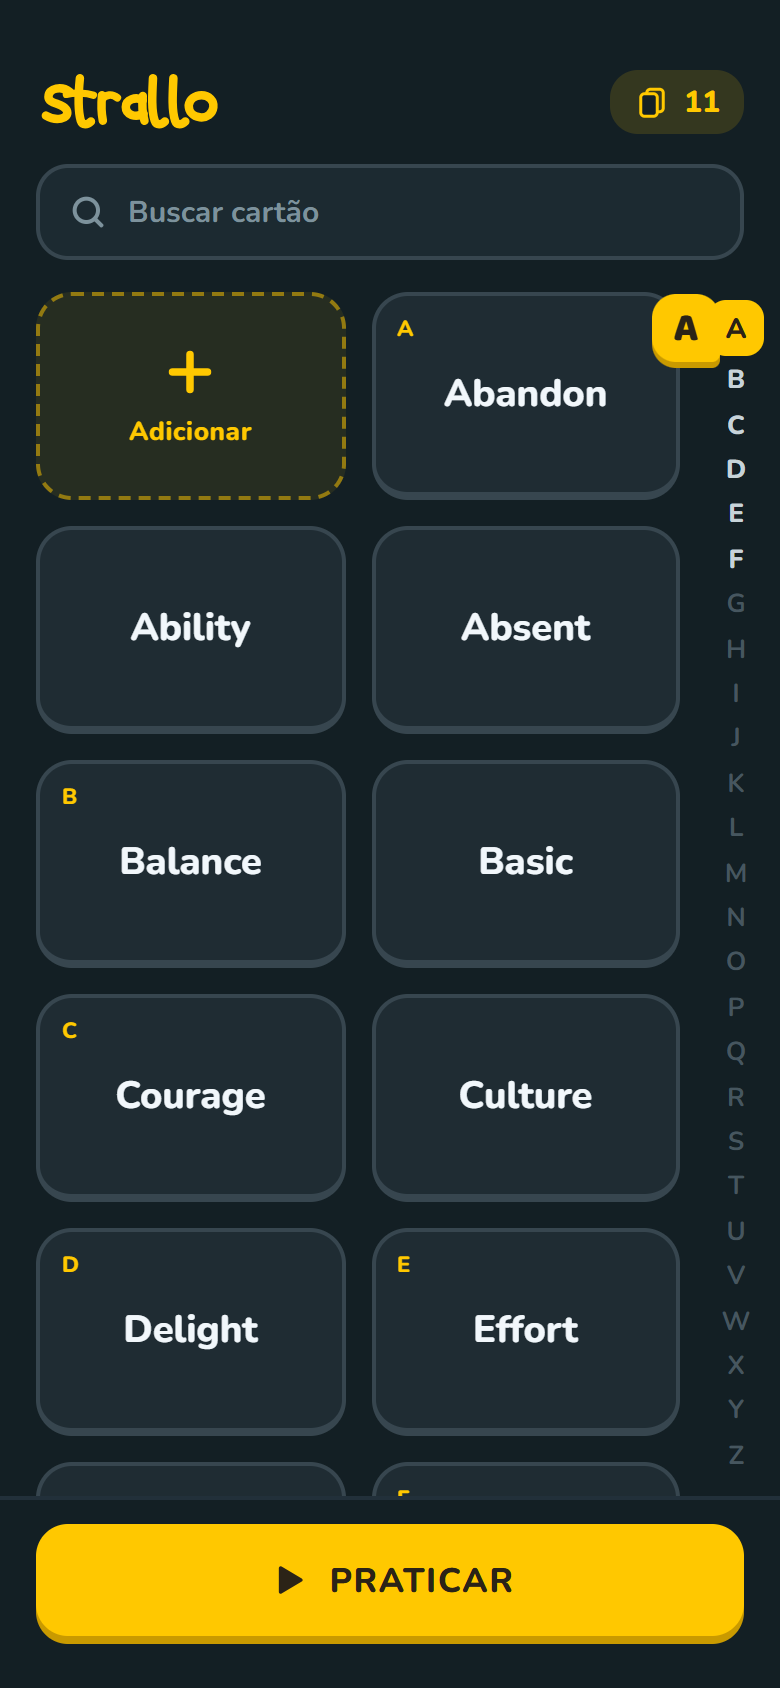
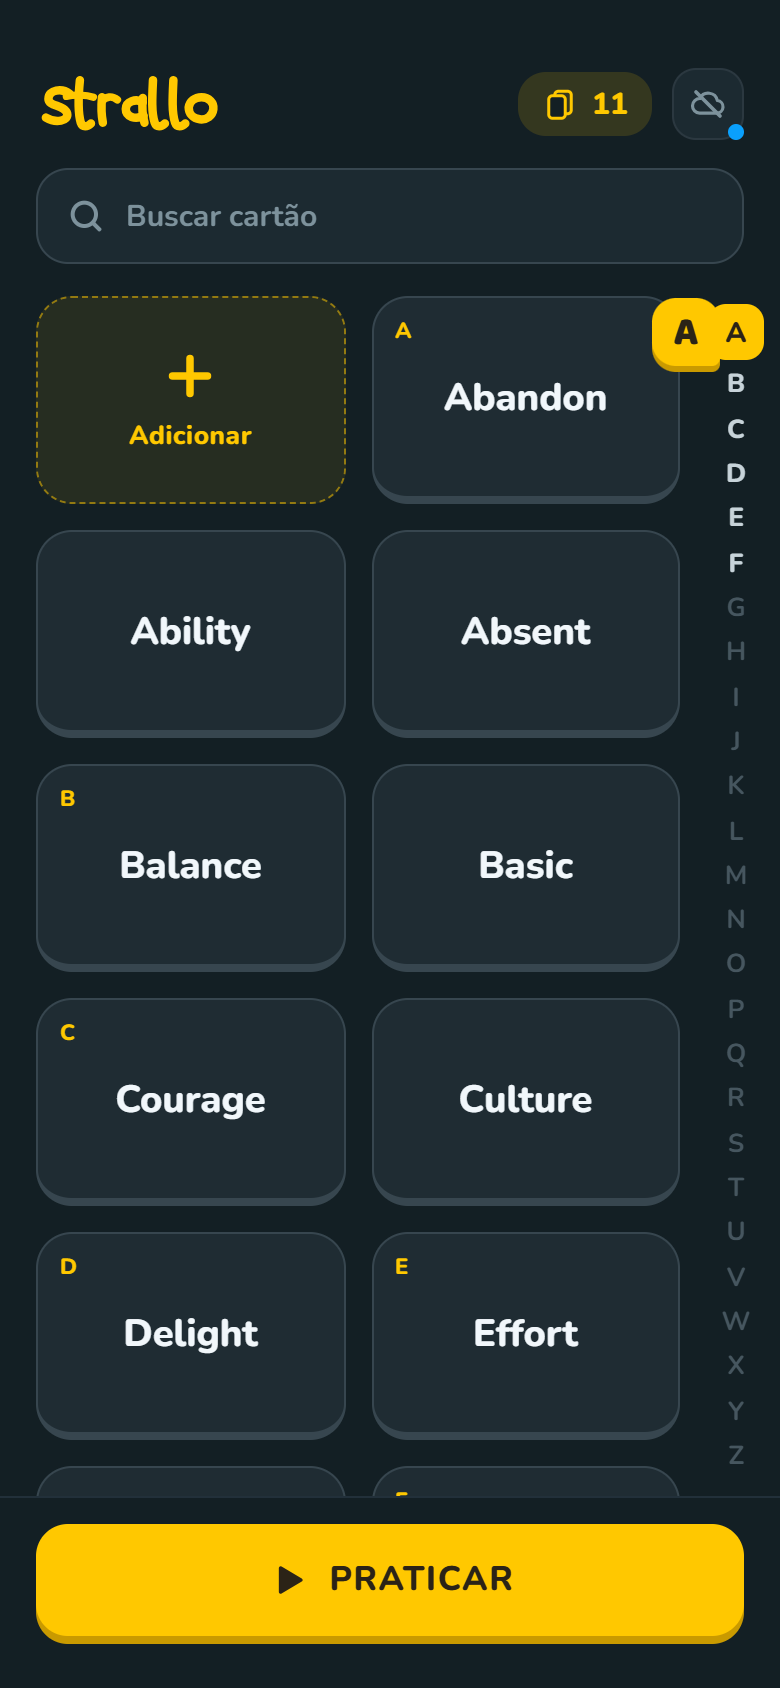
:memo: docs: atualiza galeria do README com novas telas de prototipagem
Inclui as novas capturas das telas de colecoes (inicio, dentro da colecao, criar, mover, selecao multipla, descartar) e de conta (sem login e sincronizada) na galeria do README.

diff --git a/README.md b/README.md
@@ -113,7 +113,23 @@ As telas foram desenhadas antes de codadas. Os arquivos-fonte estão em
 
 <img src="docs/screens/inicio.png" width="160" alt="Início">
 &nbsp;
+<img src="docs/screens/inicio-categorias.png" width="160" alt="Com coleções">
+&nbsp;
+<img src="docs/screens/dentro-da-colecao.png" width="160" alt="Dentro da coleção">
+
+<br><br>
+
+<img src="docs/screens/criar-categoria.png" width="160" alt="Criar coleção">
+&nbsp;
 <img src="docs/screens/editar.png" width="160" alt="Editar cartão">
+&nbsp;
+<img src="docs/screens/mover-para.png" width="160" alt="Mover para coleção">
+
+<br><br>
+
+<img src="docs/screens/multipla-selecao.png" width="160" alt="Seleção múltipla">
+&nbsp;
+<img src="docs/screens/modal-descartar.png" width="160" alt="Confirmar exclusão">
 &nbsp;
 <img src="docs/screens/jogo-inicio.png" width="160" alt="Escolher modo">
 
@@ -133,11 +149,13 @@ As telas foram desenhadas antes de codadas. Os arquivos-fonte estão em
 &nbsp;
 <img src="docs/screens/jogo-resultado.png" width="160" alt="Resultado da rodada">
 
-</div>
+<br><br>
 
-As telas de coleções e de conta ainda não estão nesta galeria — as capturas
-saem das artboards por `node scripts/generate-screens.mjs`, que precisa de um
-Chromium funcional.
+<img src="docs/screens/conta-sem-login.png" width="160" alt="Conta (visitante)">
+&nbsp;
+<img src="docs/screens/conta-sincronizada.png" width="160" alt="Conta (sincronizada)">
+
+</div>
 
 ## Como rodar
 
